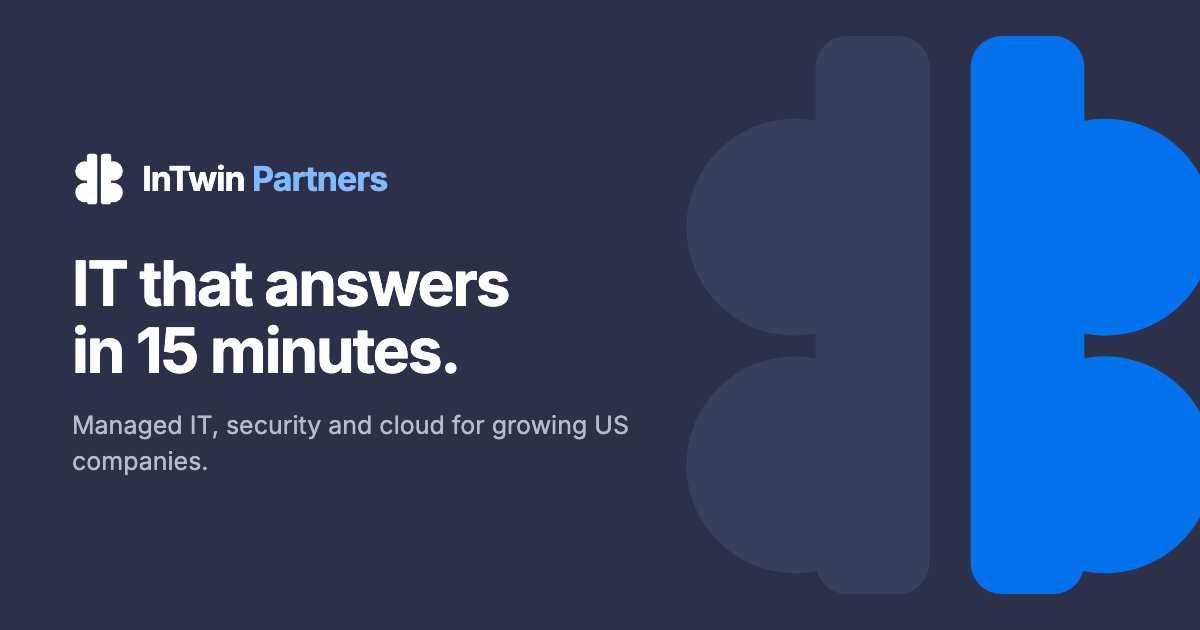
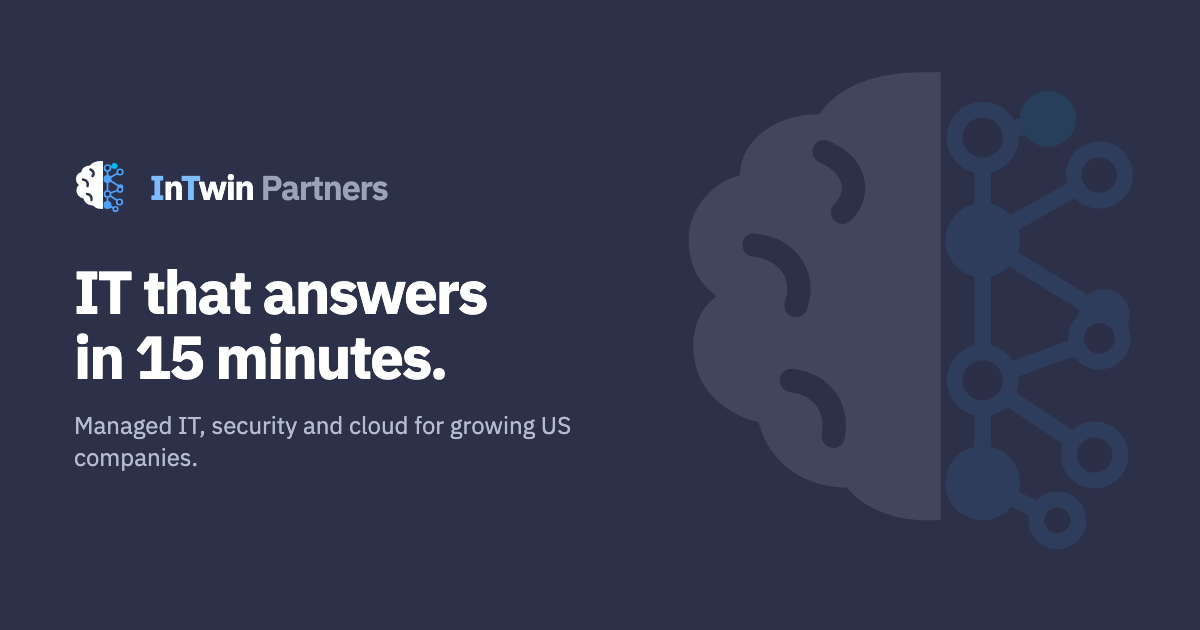
New mark: human brain and machine network, IBM Plex Sans, agreed wordmark
MARK
Approved concept, rebuilt as vector: the left half is the human side — an organic
brain silhouette whose folds are cut through the shape as transparent gaps rather
than painted white, so the mark works on light, dark and photographic grounds.
The right half is the machine side — a network of filled and outlined nodes on a
spine. The two halves differ in shape, not only colour, which is what keeps them
legible at 16px and in single colour.

Three variants: mark.svg (colour), mark-light.svg (white brain, bright nodes, for
dark grounds), mark-mono.svg (single colour).

WORDMARK
Kept as agreed: capitals in blue, Partners quiet. I and T carry brand blue, the
rest of the name sits in ink, Partners in grey at weight 600 — never blue. Applied
to header and footer.

TYPEFACE
Inter replaced by IBM Plex Sans throughout, per the earlier decision.

ALSO
Favicons, apple-touch and .ico regenerated from the new mark; OG card rebuilt with
the light variant on navy. The previous iteration's letter-based logo files are
removed — nothing referenced them. The 2023 raster stays as reference only.

Verified: all links and anchors resolve, no stale references, mark renders on
white, on #232739 and at 48/32/16px.

diff --git a/assets/css/site.css b/assets/css/site.css
@@ -20,7 +20,7 @@
   --white:#fff;
   --ok:#16A47A;
 
-  --sans:'Inter','Segoe UI',system-ui,-apple-system,'Helvetica Neue',Arial,sans-serif;
+  --sans:'IBM Plex Sans','Segoe UI',system-ui,-apple-system,'Helvetica Neue',Arial,sans-serif;
   --r:14px; --r-s:8px; --r-xs:6px;
   --wrap:1140px;
   --shadow-s:0 1px 2px rgba(30,34,51,.06),0 1px 3px rgba(30,34,51,.05);
@@ -95,9 +95,10 @@ header{
 }
 .hrow{display:flex;align-items:center;gap:28px;padding:14px 0}
 .brand{display:flex;align-items:center;gap:10px}
-.brand img{height:34px;width:auto}
-.brand .wm{font-size:20px;font-weight:700;color:var(--ink);letter-spacing:-.025em}
-.brand .wm span{color:var(--blue)}
+.brand img{height:38px;width:auto}
+.brand .wm{font-size:20px;font-weight:700;color:var(--ink);letter-spacing:-.03em}
+.brand .wm .c{color:var(--blue)}
+.brand .wm .p{color:var(--muted);font-weight:600}
 nav.main{display:flex;gap:4px;align-items:center;margin-left:auto}
 nav.main > a,.navitem > button{
   font-size:15px;font-weight:500;color:var(--ink);background:none;border:0;
@@ -328,9 +329,10 @@ footer a{color:#9BA3B9;display:block;padding:4px 0}
 footer a:hover{color:#fff}
 .fgrid{display:grid;grid-template-columns:1.5fr 1fr 1fr 1fr 1.15fr;gap:32px}
 .fbrand{display:flex;align-items:center;gap:10px;margin-bottom:14px}
-.fbrand img{height:30px}
-.fbrand .wm{font-size:18px;font-weight:700;color:#fff;letter-spacing:-.02em}
-.fbrand .wm span{color:#7FBBFF}
+.fbrand img{height:34px}
+.fbrand .wm{font-size:18px;font-weight:700;color:#fff;letter-spacing:-.03em}
+.fbrand .wm .c{color:#7FBBFF}
+.fbrand .wm .p{color:#9BA3B9;font-weight:600}
 .fabout{font-size:14px;line-height:1.6;max-width:34ch}
 .fcontact div{padding:4px 0;display:flex;gap:9px;align-items:flex-start}
 .fcontact .ico{width:16px;height:16px;flex:0 0 auto;margin-top:4px;color:#7FBBFF}

diff --git a/about.html b/about.html
@@ -25,7 +25,7 @@
 
 <link rel="preconnect" href="https://fonts.googleapis.com">
 <link rel="preconnect" href="https://fonts.gstatic.com" crossorigin>
-<link href="https://fonts.googleapis.com/css2?family=Inter:wght@400;500;600;700&display=swap" rel="stylesheet">
+<link href="https://fonts.googleapis.com/css2?family=IBM+Plex+Sans:wght@400;500;600;700&display=swap" rel="stylesheet">
 <link rel="stylesheet" href="assets/css/site.css">
 </head>
 <body>
@@ -43,8 +43,8 @@
 <header>
   <div class="wrap hrow">
     <a class="brand" href="index.html">
-      <img src="assets/img/logo-mark.svg" alt="" width="116" height="120">
-      <span class="wm">InTwin <span>Partners</span></span>
+      <img src="assets/img/mark.svg" alt="" width="120" height="120">
+      <span class="wm"><span class="c">I</span>n<span class="c">T</span>win <span class="p">Partners</span></span>
     </a>
 
     <button class="burger" aria-label="Menu" aria-expanded="false"><span></span><span></span><span></span></button>
@@ -210,8 +210,8 @@
     <div class="fgrid">
       <div>
         <div class="fbrand">
-          <img src="assets/img/logo-mark.svg" alt="" width="116" height="120">
-          <span class="wm">InTwin <span>Partners</span></span>
+          <img src="assets/img/mark.svg" alt="" width="120" height="120">
+          <span class="wm"><span class="c">I</span>n<span class="c">T</span>win <span class="p">Partners</span></span>
         </div>
         <p class="fabout">Managed IT, security and cloud for growing US companies. Work handled by senior engineers, with automation doing the repetitive part.</p>
       </div>

diff --git a/ai.html b/ai.html
@@ -25,7 +25,7 @@
 
 <link rel="preconnect" href="https://fonts.googleapis.com">
 <link rel="preconnect" href="https://fonts.gstatic.com" crossorigin>
-<link href="https://fonts.googleapis.com/css2?family=Inter:wght@400;500;600;700&display=swap" rel="stylesheet">
+<link href="https://fonts.googleapis.com/css2?family=IBM+Plex+Sans:wght@400;500;600;700&display=swap" rel="stylesheet">
 <link rel="stylesheet" href="assets/css/site.css">
 </head>
 <body>
@@ -43,8 +43,8 @@
 <header>
   <div class="wrap hrow">
     <a class="brand" href="index.html">
-      <img src="assets/img/logo-mark.svg" alt="" width="116" height="120">
-      <span class="wm">InTwin <span>Partners</span></span>
+      <img src="assets/img/mark.svg" alt="" width="120" height="120">
+      <span class="wm"><span class="c">I</span>n<span class="c">T</span>win <span class="p">Partners</span></span>
     </a>
 
     <button class="burger" aria-label="Menu" aria-expanded="false"><span></span><span></span><span></span></button>
@@ -240,8 +240,8 @@
     <div class="fgrid">
       <div>
         <div class="fbrand">
-          <img src="assets/img/logo-mark.svg" alt="" width="116" height="120">
-          <span class="wm">InTwin <span>Partners</span></span>
+          <img src="assets/img/mark.svg" alt="" width="120" height="120">
+          <span class="wm"><span class="c">I</span>n<span class="c">T</span>win <span class="p">Partners</span></span>
         </div>
         <p class="fabout">Managed IT, security and cloud for growing US companies. Work handled by senior engineers, with automation doing the repetitive part.</p>
       </div>

diff --git a/contact.html b/contact.html
@@ -25,7 +25,7 @@
 
 <link rel="preconnect" href="https://fonts.googleapis.com">
 <link rel="preconnect" href="https://fonts.gstatic.com" crossorigin>
-<link href="https://fonts.googleapis.com/css2?family=Inter:wght@400;500;600;700&display=swap" rel="stylesheet">
+<link href="https://fonts.googleapis.com/css2?family=IBM+Plex+Sans:wght@400;500;600;700&display=swap" rel="stylesheet">
 <link rel="stylesheet" href="assets/css/site.css">
 </head>
 <body>
@@ -43,8 +43,8 @@
 <header>
   <div class="wrap hrow">
     <a class="brand" href="index.html">
-      <img src="assets/img/logo-mark.svg" alt="" width="116" height="120">
-      <span class="wm">InTwin <span>Partners</span></span>
+      <img src="assets/img/mark.svg" alt="" width="120" height="120">
+      <span class="wm"><span class="c">I</span>n<span class="c">T</span>win <span class="p">Partners</span></span>
     </a>
 
     <button class="burger" aria-label="Menu" aria-expanded="false"><span></span><span></span><span></span></button>
@@ -232,8 +232,8 @@
     <div class="fgrid">
       <div>
         <div class="fbrand">
-          <img src="assets/img/logo-mark.svg" alt="" width="116" height="120">
-          <span class="wm">InTwin <span>Partners</span></span>
+          <img src="assets/img/mark.svg" alt="" width="120" height="120">
+          <span class="wm"><span class="c">I</span>n<span class="c">T</span>win <span class="p">Partners</span></span>
         </div>
         <p class="fabout">Managed IT, security and cloud for growing US companies. Work handled by senior engineers, with automation doing the repetitive part.</p>
       </div>

diff --git a/index.html b/index.html
@@ -25,7 +25,7 @@
 
 <link rel="preconnect" href="https://fonts.googleapis.com">
 <link rel="preconnect" href="https://fonts.gstatic.com" crossorigin>
-<link href="https://fonts.googleapis.com/css2?family=Inter:wght@400;500;600;700&display=swap" rel="stylesheet">
+<link href="https://fonts.googleapis.com/css2?family=IBM+Plex+Sans:wght@400;500;600;700&display=swap" rel="stylesheet">
 <link rel="stylesheet" href="assets/css/site.css">
 </head>
 <body>
@@ -43,8 +43,8 @@
 <header>
   <div class="wrap hrow">
     <a class="brand" href="index.html">
-      <img src="assets/img/logo-mark.svg" alt="" width="116" height="120">
-      <span class="wm">InTwin <span>Partners</span></span>
+      <img src="assets/img/mark.svg" alt="" width="120" height="120">
+      <span class="wm"><span class="c">I</span>n<span class="c">T</span>win <span class="p">Partners</span></span>
     </a>
 
     <button class="burger" aria-label="Menu" aria-expanded="false"><span></span><span></span><span></span></button>
@@ -302,8 +302,8 @@
     <div class="fgrid">
       <div>
         <div class="fbrand">
-          <img src="assets/img/logo-mark.svg" alt="" width="116" height="120">
-          <span class="wm">InTwin <span>Partners</span></span>
+          <img src="assets/img/mark.svg" alt="" width="120" height="120">
+          <span class="wm"><span class="c">I</span>n<span class="c">T</span>win <span class="p">Partners</span></span>
         </div>
         <p class="fabout">Managed IT, security and cloud for growing US companies. Work handled by senior engineers, with automation doing the repetitive part.</p>
       </div>

diff --git a/partners.html b/partners.html
@@ -25,7 +25,7 @@
 
 <link rel="preconnect" href="https://fonts.googleapis.com">
 <link rel="preconnect" href="https://fonts.gstatic.com" crossorigin>
-<link href="https://fonts.googleapis.com/css2?family=Inter:wght@400;500;600;700&display=swap" rel="stylesheet">
+<link href="https://fonts.googleapis.com/css2?family=IBM+Plex+Sans:wght@400;500;600;700&display=swap" rel="stylesheet">
 <link rel="stylesheet" href="assets/css/site.css">
 </head>
 <body>
@@ -43,8 +43,8 @@
 <header>
   <div class="wrap hrow">
     <a class="brand" href="index.html">
-      <img src="assets/img/logo-mark.svg" alt="" width="116" height="120">
-      <span class="wm">InTwin <span>Partners</span></span>
+      <img src="assets/img/mark.svg" alt="" width="120" height="120">
+      <span class="wm"><span class="c">I</span>n<span class="c">T</span>win <span class="p">Partners</span></span>
     </a>
 
     <button class="burger" aria-label="Menu" aria-expanded="false"><span></span><span></span><span></span></button>
@@ -283,8 +283,8 @@
     <div class="fgrid">
       <div>
         <div class="fbrand">
-          <img src="assets/img/logo-mark.svg" alt="" width="116" height="120">
-          <span class="wm">InTwin <span>Partners</span></span>
+          <img src="assets/img/mark.svg" alt="" width="120" height="120">
+          <span class="wm"><span class="c">I</span>n<span class="c">T</span>win <span class="p">Partners</span></span>
         </div>
         <p class="fabout">Managed IT, security and cloud for growing US companies. Work handled by senior engineers, with automation doing the repetitive part.</p>
       </div>

diff --git a/services.html b/services.html
@@ -25,7 +25,7 @@
 
 <link rel="preconnect" href="https://fonts.googleapis.com">
 <link rel="preconnect" href="https://fonts.gstatic.com" crossorigin>
-<link href="https://fonts.googleapis.com/css2?family=Inter:wght@400;500;600;700&display=swap" rel="stylesheet">
+<link href="https://fonts.googleapis.com/css2?family=IBM+Plex+Sans:wght@400;500;600;700&display=swap" rel="stylesheet">
 <link rel="stylesheet" href="assets/css/site.css">
 </head>
 <body>
@@ -43,8 +43,8 @@
 <header>
   <div class="wrap hrow">
     <a class="brand" href="index.html">
-      <img src="assets/img/logo-mark.svg" alt="" width="116" height="120">
-      <span class="wm">InTwin <span>Partners</span></span>
+      <img src="assets/img/mark.svg" alt="" width="120" height="120">
+      <span class="wm"><span class="c">I</span>n<span class="c">T</span>win <span class="p">Partners</span></span>
     </a>
 
     <button class="burger" aria-label="Menu" aria-expanded="false"><span></span><span></span><span></span></button>
@@ -213,8 +213,8 @@
     <div class="fgrid">
       <div>
         <div class="fbrand">
-          <img src="assets/img/logo-mark.svg" alt="" width="116" height="120">
-          <span class="wm">InTwin <span>Partners</span></span>
+          <img src="assets/img/mark.svg" alt="" width="120" height="120">
+          <span class="wm"><span class="c">I</span>n<span class="c">T</span>win <span class="p">Partners</span></span>
         </div>
         <p class="fabout">Managed IT, security and cloud for growing US companies. Work handled by senior engineers, with automation doing the repetitive part.</p>
       </div>

diff --git a/solutions.html b/solutions.html
@@ -25,7 +25,7 @@
 
 <link rel="preconnect" href="https://fonts.googleapis.com">
 <link rel="preconnect" href="https://fonts.gstatic.com" crossorigin>
-<link href="https://fonts.googleapis.com/css2?family=Inter:wght@400;500;600;700&display=swap" rel="stylesheet">
+<link href="https://fonts.googleapis.com/css2?family=IBM+Plex+Sans:wght@400;500;600;700&display=swap" rel="stylesheet">
 <link rel="stylesheet" href="assets/css/site.css">
 </head>
 <body>
@@ -43,8 +43,8 @@
 <header>
   <div class="wrap hrow">
     <a class="brand" href="index.html">
-      <img src="assets/img/logo-mark.svg" alt="" width="116" height="120">
-      <span class="wm">InTwin <span>Partners</span></span>
+      <img src="assets/img/mark.svg" alt="" width="120" height="120">
+      <span class="wm"><span class="c">I</span>n<span class="c">T</span>win <span class="p">Partners</span></span>
     </a>
 
     <button class="burger" aria-label="Menu" aria-expanded="false"><span></span><span></span><span></span></button>
@@ -194,8 +194,8 @@
     <div class="fgrid">
       <div>
         <div class="fbrand">
-          <img src="assets/img/logo-mark.svg" alt="" width="116" height="120">
-          <span class="wm">InTwin <span>Partners</span></span>
+          <img src="assets/img/mark.svg" alt="" width="120" height="120">
+          <span class="wm"><span class="c">I</span>n<span class="c">T</span>win <span class="p">Partners</span></span>
         </div>
         <p class="fabout">Managed IT, security and cloud for growing US companies. Work handled by senior engineers, with automation doing the repetitive part.</p>
       </div>

diff --git a/src/layout.html b/src/layout.html
@@ -25,7 +25,7 @@
 
 <link rel="preconnect" href="https://fonts.googleapis.com">
 <link rel="preconnect" href="https://fonts.gstatic.com" crossorigin>
-<link href="https://fonts.googleapis.com/css2?family=Inter:wght@400;500;600;700&display=swap" rel="stylesheet">
+<link href="https://fonts.googleapis.com/css2?family=IBM+Plex+Sans:wght@400;500;600;700&display=swap" rel="stylesheet">
 <link rel="stylesheet" href="assets/css/site.css">
 </head>
 <body>
@@ -43,8 +43,8 @@
 <header>
   <div class="wrap hrow">
     <a class="brand" href="index.html">
-      <img src="assets/img/logo-mark.svg" alt="" width="116" height="120">
-      <span class="wm">InTwin <span>Partners</span></span>
+      <img src="assets/img/mark.svg" alt="" width="120" height="120">
+      <span class="wm"><span class="c">I</span>n<span class="c">T</span>win <span class="p">Partners</span></span>
     </a>
 
     <button class="burger" aria-label="Menu" aria-expanded="false"><span></span><span></span><span></span></button>
@@ -84,8 +84,8 @@
     <div class="fgrid">
       <div>
         <div class="fbrand">
-          <img src="assets/img/logo-mark.svg" alt="" width="116" height="120">
-          <span class="wm">InTwin <span>Partners</span></span>
+          <img src="assets/img/mark.svg" alt="" width="120" height="120">
+          <span class="wm"><span class="c">I</span>n<span class="c">T</span>win <span class="p">Partners</span></span>
         </div>
         <p class="fabout">Managed IT, security and cloud for growing US companies. Work handled by senior engineers, with automation doing the repetitive part.</p>
       </div>
